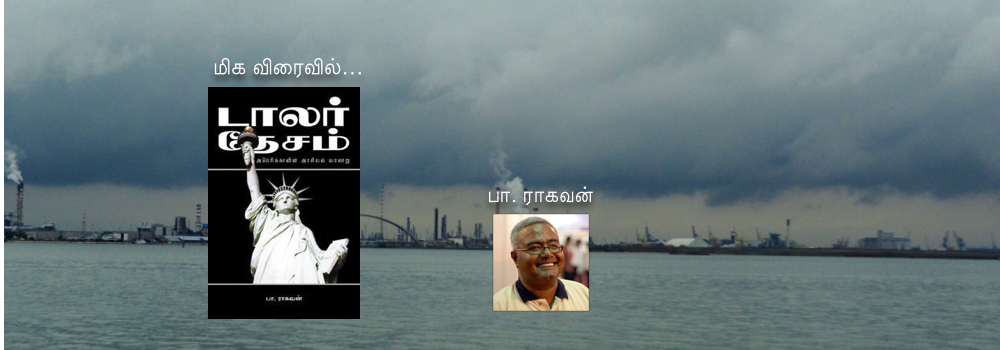
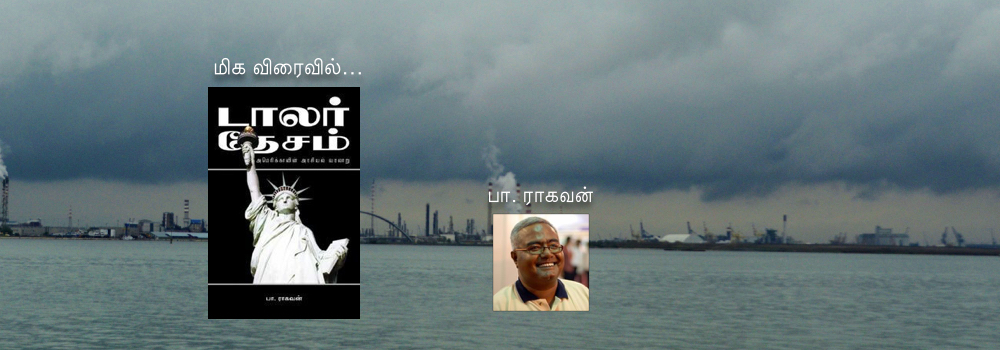
Updating home page marquee. Adding FAQ page.

diff --git a/src/main/java/com/pratilipi/site/element/pratilipi-marquee.html b/src/main/java/com/pratilipi/site/element/pratilipi-marquee.html
@@ -17,7 +17,7 @@
 	  
 			<div id="PratilipiCarousel" class="carousel slide" data-ride="carousel">
 		    	
-			    <ol class="carousel-indicators">
+			    <ol class="carousel-indicators" style="margin-bottom: 0px; z-index: 10;">
 			     	<li data-target="#PratilipiCarousel" data-slide-to="0" class="active"></li>
 			     	<li data-target="#PratilipiCarousel" data-slide-to="1"></li>
 			     	<li data-target="#PratilipiCarousel" data-slide-to="2"></li>
